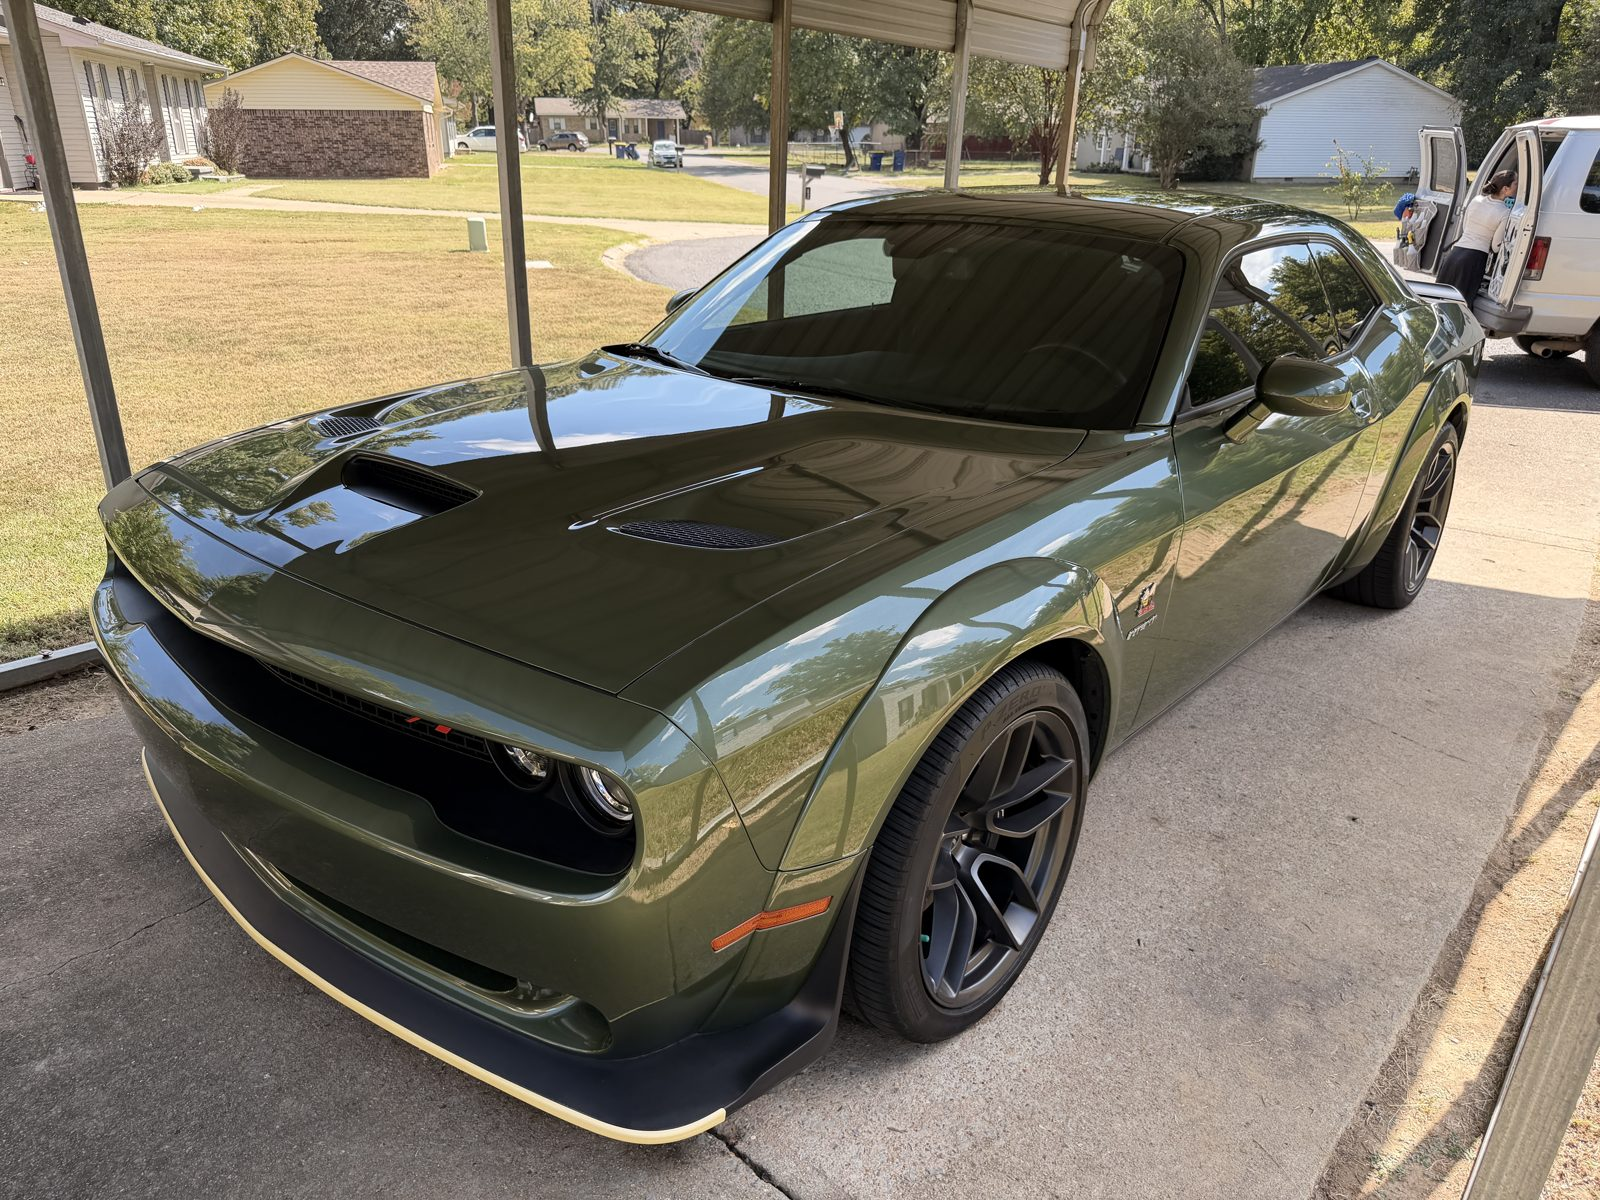
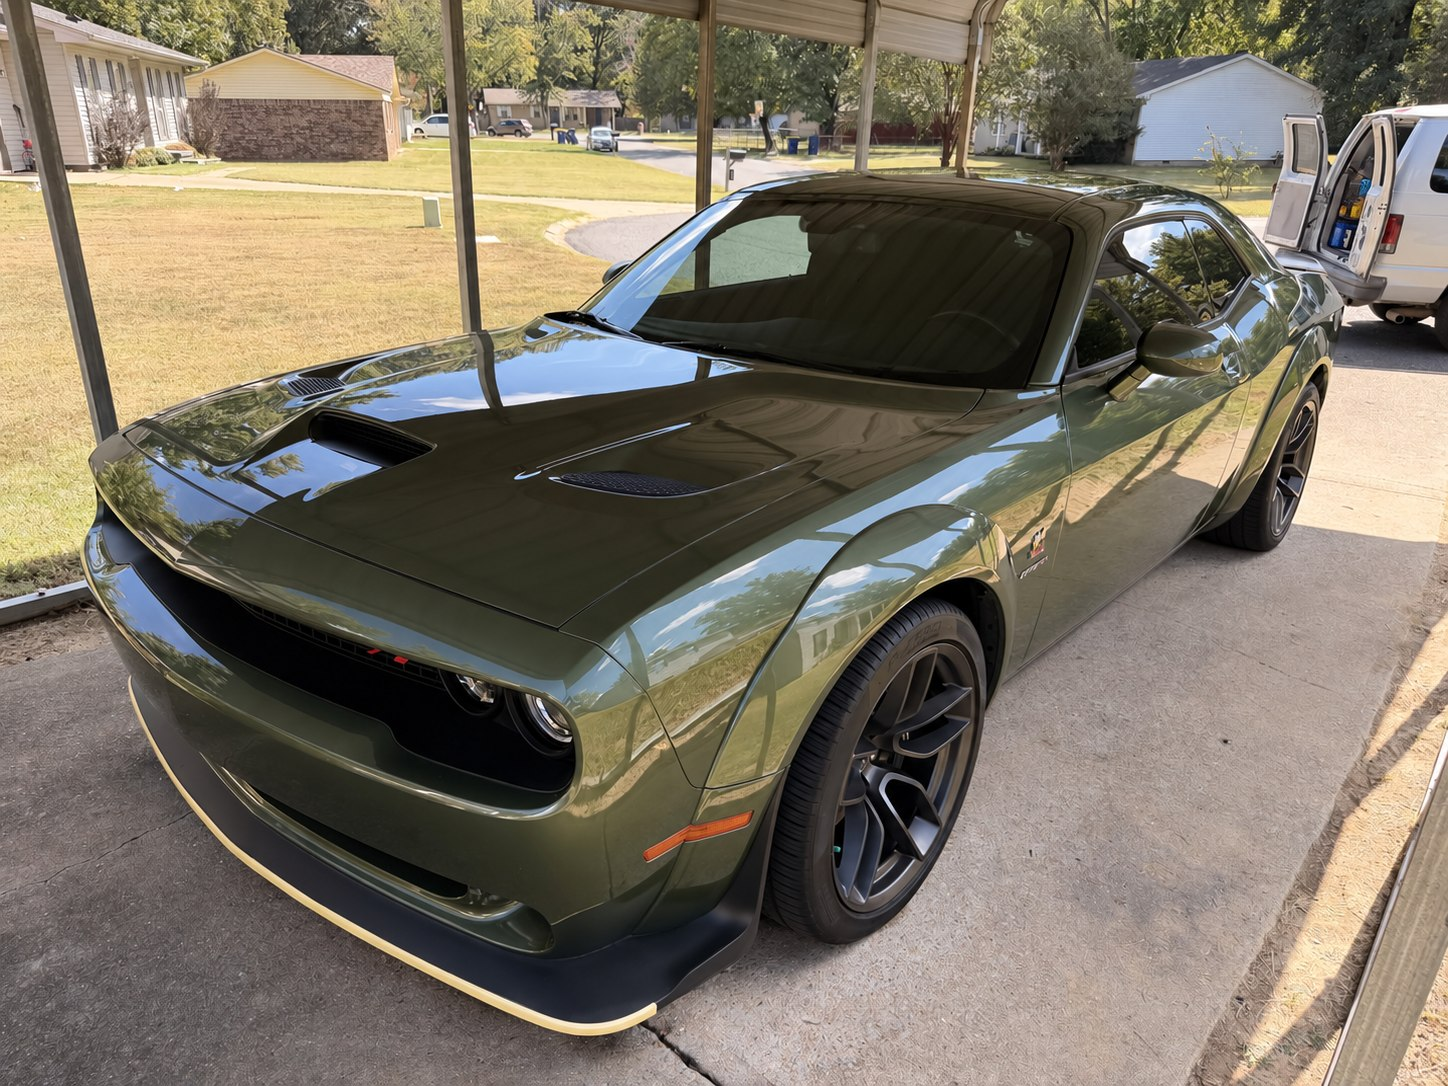
Remove background person from Challenger project photo

diff --git a/ceramic-coating-little-rock-ar/index.html b/ceramic-coating-little-rock-ar/index.html
@@ -238,7 +238,7 @@
     <h2 class="section-title" id="ceramic-projects-title">Ceramic Coating Projects in Central Arkansas</h2>
     <p class="section-subtitle">Real vehicles prepared and protected by Tuff Bros &mdash; from dark paint that shows every reflection to work-ready trucks and luxury sedans.</p>
     <article class="ceramic-story" id="cabot-challenger" aria-labelledby="cabot-challenger-title">
-      <img class="ceramic-story-hero" src="/ceramic-challenger-cabot-finished.jpg" alt="Green Dodge Challenger Scat Pack after polishing and a three-year ceramic coating in Cabot, Arkansas" width="1600" height="1200" loading="lazy">
+      <img class="ceramic-story-hero" src="/ceramic-challenger-cabot-finished.jpg?v=2" alt="Green Dodge Challenger Scat Pack after polishing and a three-year ceramic coating in Cabot, Arkansas" width="1448" height="1086" loading="lazy">
       <div class="ceramic-story-copy">
         <p class="section-eyebrow">Featured Project &bull; Cabot, Arkansas</p>
         <h3 id="cabot-challenger-title">The Challenger He Chose to Keep</h3>
